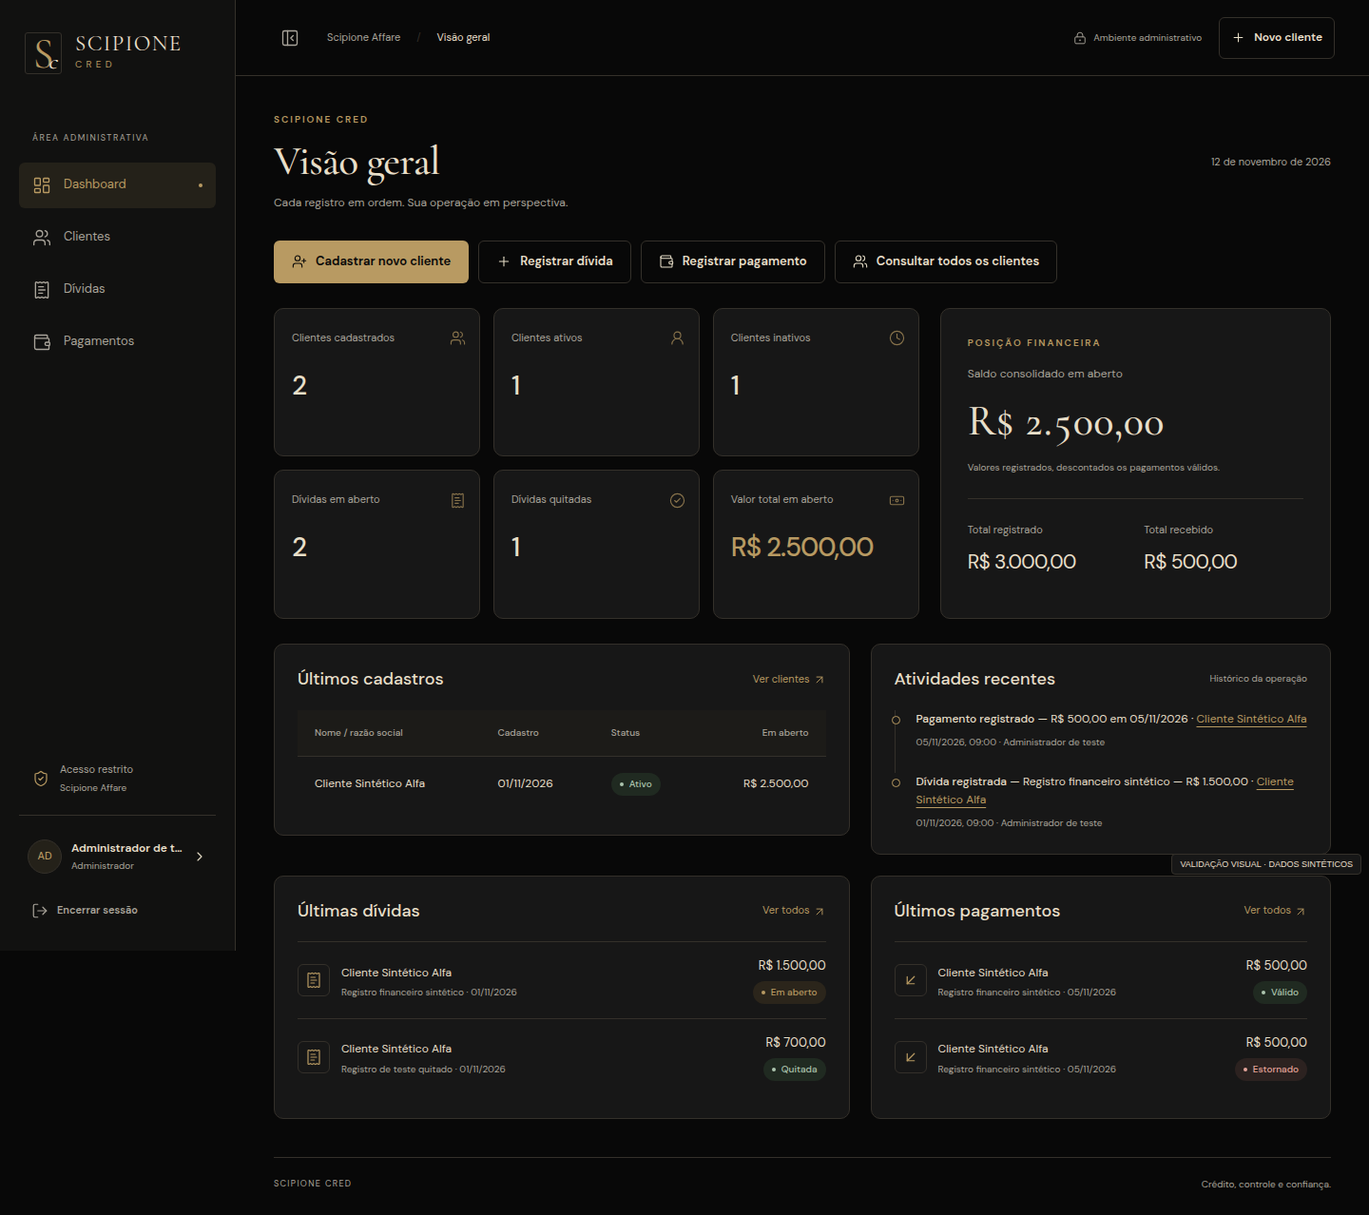
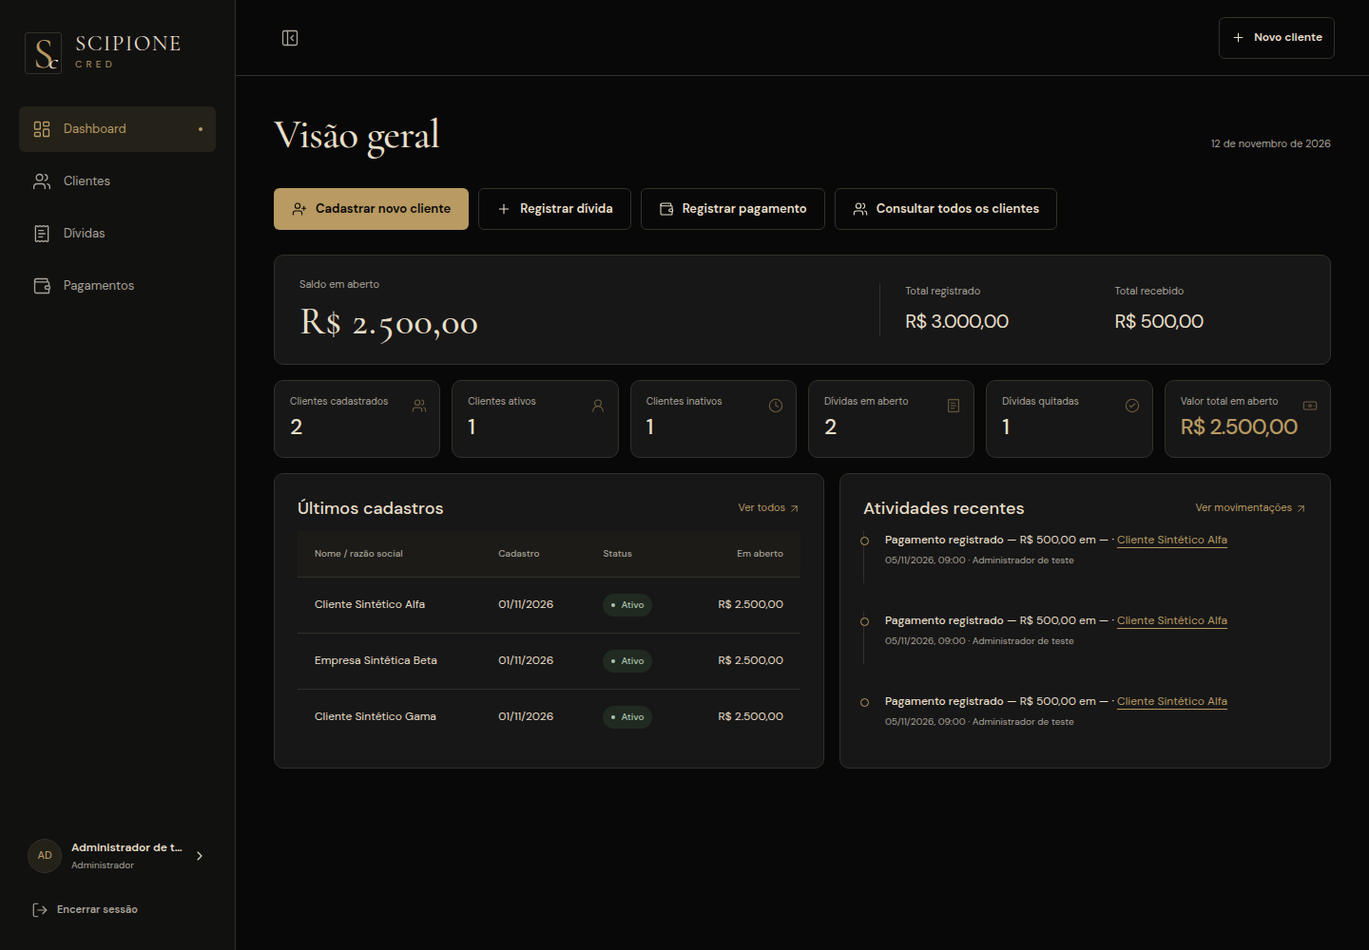
style: enxugar textos redundantes e equilibrar cards do dashboard
Mantém apenas títulos, indicadores e dados operacionais; faixa financeira única, seis indicadores em uma linha no desktop e painéis pareados sem vãos.

diff --git a/src/styles/base.css b/src/styles/base.css
@@ -35,21 +35,17 @@ strong { font-weight: 600; }
 /* Navigation: permanent rail on desktop, touch navigation on phones. */
 .app-shell { min-height: 100dvh; }
 .sidebar { position: fixed; inset: 0 auto 0 0; z-index: 20; width: var(--sidebar-width); padding: 34px 20px 20px; background: #111110; border-right: 1px solid var(--borda); display: flex; flex-direction: column; transition: width var(--transition); }
-.brand { display: flex; align-items: center; gap: 14px; color: var(--marfim); text-decoration: none; padding: 0 6px; margin-bottom: 60px; }
+.brand { display: flex; align-items: center; gap: 14px; color: var(--marfim); text-decoration: none; padding: 0 6px; margin-bottom: 34px; }
 .brand-mark { position: relative; flex-shrink: 0; width: 39px; height: 44px; display: grid; place-items: center; font: 44px/1 var(--font-display); color: var(--ouro); border: 1px solid var(--borda); border-radius: 3px; }
 .brand-mark span { position: absolute; right: 4px; bottom: 0; font: italic 23px/1 var(--font-display); color: var(--marfim); }
 .brand-name { display: flex; flex-direction: column; font: 23px/1.05 var(--font-display); letter-spacing: .06em; }
 .brand-name > span { font: 10px/2 var(--font-body); letter-spacing: .43em; color: var(--ouro); }
-.nav-caption { margin: 0 14px 18px; font-size: 9px; letter-spacing: .17em; color: var(--muted); white-space: nowrap; }
 .sidebar-nav { display: flex; flex-direction: column; gap: 7px; }
 .nav-link { position: relative; display: flex; align-items: center; gap: 13px; min-height: 48px; padding: 12px 14px; color: var(--muted); border-radius: 6px; text-decoration: none; font-size: 13px; transition: background var(--transition), color var(--transition); }
 .nav-link:hover { background: var(--painel); color: var(--marfim); }
 .nav-link.active { background: #242119; color: var(--ouro); }
 .nav-dot { width: 4px; height: 4px; background: var(--ouro); border-radius: 50%; margin-left: auto; }
-.sidebar-bottom { margin-top: auto; padding-top: 48px; }
-.sidebar-security { display: flex; gap: 11px; align-items: center; padding: 20px 14px; margin-bottom: 16px; color: var(--ouro); border-bottom: 1px solid var(--borda); font-size: 11px; }
-.sidebar-security > span { color: var(--muted); }
-.sidebar-security > span > span { display: block; font-size: 10px; margin-top: 2px; }
+.sidebar-bottom { margin-top: auto; padding-top: 28px; }
 .admin-profile { width: 100%; padding: 8px; background: transparent; color: var(--marfim); gap: 10px; justify-content: flex-start; text-align: left; }
 .admin-profile:hover { background: var(--painel); color: var(--marfim); }
 .admin-avatar { display: inline-flex; flex-shrink: 0; width: 36px; height: 36px; min-height: 36px; padding: 0; align-items: center; justify-content: center; background: #242119; color: var(--ouro); border: 1px solid var(--borda); border-radius: 50%; font-size: 11px; font-weight: 500; }
@@ -61,18 +57,12 @@ strong { font-weight: 600; }
 .workspace { margin-left: var(--sidebar-width); transition: margin-left var(--transition); }
 .topo { height: 80px; border-bottom: 1px solid var(--borda); padding: 0 36px; display: flex; justify-content: space-between; align-items: center; gap: 20px; background: var(--fundo); }
 .topo-left, .topo-right { display: flex; align-items: center; gap: 18px; min-width: 0; }
-.topo-context { font-size: 11px; color: var(--muted); }
-.topo-context > span { color: var(--borda); margin: 0 14px; }
-.topo-context strong { color: var(--marfim); font-weight: 400; }
-.access-label { display: inline-flex; align-items: center; gap: 7px; color: var(--muted); font-size: 10px; }
 .mobile-brand, .mobile-profile, .mobile-nav { display: none; }
 .pg { padding: 38px 40px 24px; max-width: 1600px; margin: 0 auto; }
-.page-heading { display: flex; justify-content: space-between; align-items: center; gap: 24px; margin-bottom: 30px; }
-.page-description { font-size: 12px; color: var(--muted); max-width: 650px; margin: 0; }
+.page-heading { display: flex; justify-content: space-between; align-items: baseline; gap: 24px; margin-bottom: 22px; }
+.page-description { font-size: 12px; color: var(--muted); max-width: 650px; margin: -10px 0 22px; }
 .page-date { font-size: 11px; color: var(--muted); white-space: nowrap; }
 .back-link { display: inline-flex; gap: 8px; align-items: center; color: var(--muted); text-decoration: none; font-size: 11px; margin-bottom: 22px; }
-.page-footer { display: flex; justify-content: space-between; gap: 20px; border-top: 1px solid var(--borda); margin-top: 40px; padding-top: 20px; color: var(--muted); font-size: 10px; }
-.page-footer > span:first-child { letter-spacing: .15em; font-size: 9px; }
 .sidebar-collapsed { --sidebar-width: 80px; }
 .sidebar-collapsed .sidebar { padding: 34px 12px 20px; }
 .sidebar-collapsed .brand { margin-left: 1px; padding: 0; }
@@ -344,7 +334,6 @@ dd { margin: 0; overflow-wrap: anywhere; }
   .auth h1 { font-size: 34px; }
   input, select, textarea { font-size: 16px; }
   .dialogo { padding: 24px; }
-  .page-footer { font-size: 9px; }
 }
 @media (max-width: 360px) {
   .pg { padding-left: 16px; padding-right: 16px; }
@@ -429,40 +418,42 @@ dd { margin: 0; overflow-wrap: anywhere; }
   td[data-label="Ações"] .acoes-linha > * { flex: 1; min-width: 100px; }
 }
 
-.dashboard-top { display: grid; grid-template-columns: 1.65fr 1fr; gap: 22px; margin-bottom: 26px; }
-.dashboard-top .cards { grid-template-columns: repeat(3, minmax(0, 1fr)); margin: 0; }
-.dashboard-top .card { padding: 22px 18px; }
-.dashboard-top .card .rot { min-height: 32px; }
-.dashboard-top .card strong { font-size: 28px; }
-.dashboard-top .financial-overview { margin: 0; }
-.dashboard-top .financial-breakdown { grid-template-columns: repeat(2, minmax(0, 1fr)); gap: 18px; }
-.financial-hero .rot { font-size: 12px; color: var(--muted); }
-.financial-hero small { display: block; font-size: 10px; margin-top: 12px; }
-.dashboard-top .financial-hero strong { margin-top: 12px; font-size: 44px; }
-.dashboard-grid { grid-template-columns: 1.25fr 1fr; }
-.panel-header .muted { font-size: 10px; }
-.dashboard-recent { margin-top: 22px; }
-.recent-records { list-style: none; padding: 0; margin: 0; }
-.recent-records li { display: flex; gap: 12px; align-items: center; padding: 15px 0; border-top: 1px solid var(--borda); }
-.recent-records li > div { flex: 1; min-width: 0; }
-.recent-records a { color: var(--marfim); font-size: 12px; text-decoration: none; }
-.recent-records small { display: block; font-size: 10px; margin-top: 3px; overflow-wrap: anywhere; }
-.recent-icon { width: 34px; height: 34px; display: grid; place-items: center; color: var(--ouro); border: 1px solid var(--borda); border-radius: 6px; }
-.recent-amount { display: flex; flex-direction: column; align-items: flex-end; gap: 5px; font-size: 13px; white-space: nowrap; }
-@media (max-width: 1190px) {
-  .dashboard-top { grid-template-columns: 1fr; }
+/* Dashboard: faixa financeira única, indicadores compactos e painéis pareados. */
+.financial-overview { display: grid; grid-template-columns: minmax(0, 1.3fr) minmax(0, 1fr); align-items: center; gap: 28px; padding: 22px 26px; margin: 0 0 16px; }
+.financial-hero { padding: 0; border: 0; }
+.financial-hero .rot { display: block; font-size: 11px; color: var(--muted); }
+.financial-hero strong { display: block; margin-top: 6px; font: 500 clamp(30px, 3vw, 40px)/1.15 var(--font-display); color: var(--marfim); font-variant-numeric: tabular-nums; }
+.financial-breakdown { grid-template-columns: repeat(2, minmax(0, 1fr)); gap: 20px; margin: 0; padding-left: 26px; border-left: 1px solid var(--borda); }
+.financial-breakdown dd { margin-top: 6px; font-size: 20px; }
+.cards { grid-template-columns: repeat(3, minmax(0, 1fr)); gap: 12px; margin-bottom: 16px; }
+.card { padding: 15px 16px 17px; gap: 6px; }
+.card .rot { font-size: 10.5px; line-height: 1.35; min-height: 0; padding-right: 22px; }
+.card strong { font-size: 25px; }
+.metric-icon { top: 14px; right: 13px; opacity: .55; }
+.dashboard-grid { grid-template-columns: minmax(0, 1.12fr) minmax(0, 1fr); gap: 16px; align-items: stretch; }
+.dashboard-grid .panel { display: flex; flex-direction: column; }
+.dashboard-grid .panel-header { margin-bottom: 12px; }
+.dashboard-grid .rolagem { flex: 1; }
+.dashboard-grid .historico { flex: 1; display: flex; flex-direction: column; justify-content: space-between; }
+.dashboard-grid .historico li { padding-bottom: 16px; }
+.dashboard-grid .historico small { margin-top: 4px; }
+@media (min-width: 1440px) {
+  .cards { grid-template-columns: repeat(6, minmax(0, 1fr)); }
+  .card strong { font-size: 23px; }
+  .card .rot { padding-right: 16px; }
+}
+@media (max-width: 1023px) {
+  .financial-overview { grid-template-columns: 1fr; gap: 16px; padding: 20px; }
+  .financial-breakdown { padding: 16px 0 0; border-left: 0; border-top: 1px solid var(--borda); }
   .dashboard-grid { grid-template-columns: 1fr; }
 }
 @media (max-width: 767px) {
-  .dashboard-top .cards { grid-template-columns: repeat(2, minmax(0, 1fr)); }
-  .dashboard-top .card { padding: 18px 14px; }
-  .dashboard-top .card strong { font-size: 25px; }
-  .dashboard-top .financial-hero strong { font-size: 38px; }
-  .dashboard-top .financial-breakdown { grid-template-columns: 1fr; }
+  .cards { grid-template-columns: repeat(2, minmax(0, 1fr)); gap: 10px; }
+  .card { padding: 14px 13px 16px; }
+  .card strong { font-size: 22px; }
+  .financial-breakdown { grid-template-columns: 1fr; gap: 12px; }
+  .financial-breakdown > div { display: flex; align-items: baseline; justify-content: space-between; gap: 12px; }
+  .financial-breakdown dd { margin: 0; }
 }
-@media (max-width: 360px) {
-  .dashboard-top .card strong { font-size: 22px; }
-}
-
 .profile-meta { display: flex; flex-wrap: wrap; gap: 8px 22px; color: var(--muted); font-size: 11px; }
 .profile-meta span { overflow-wrap: anywhere; }

diff --git a/src/modules/dashboard.js b/src/modules/dashboard.js
@@ -2,8 +2,6 @@ import { pagina, badgeStatus } from '../components/pagina.js';
 import { itemHistorico } from '../components/historico.js';
 import * as dashboard from '../services/dashboard.js';
 import * as auditoria from '../services/auditoria.js';
-import * as dividas from '../services/dividas.js';
-import * as pagamentos from '../services/pagamentos.js';
 import { nomesPorId } from '../services/devedores.js';
 import { formatarBRL, formatarCentavos, paraCentavos } from '../utils/money.js';
 import { formatarData } from '../utils/dates.js';
@@ -12,17 +10,18 @@ import { esc } from '../core/dom.js';
 import { icon } from '../components/icons.js';
 import { loadingState, errorState } from '../components/states.js';
 
+const RECENTES = 5;
+
 export async function renderDashboard(raiz, { admin }) {
-  const el = pagina(raiz, { titulo: 'Visão geral', descricao: 'Cada registro em ordem. Sua operação em perspectiva.', admin });
-  el.innerHTML = loadingState('Consolidando sua operação…');
+  const el = pagina(raiz, { titulo: 'Visão geral', admin });
+  el.innerHTML = loadingState('Carregando indicadores…');
   try {
     const totais = Object.keys(dashboard).includes('obterTotaisFinanceiros') ? dashboard.obterTotaisFinanceiros() : Promise.resolve(null);
-    const ultimasDividas = Object.keys(dividas).includes('listarPagina') ? dividas.listarPagina({ pagina: 1, porPagina: 3, ordem: 'recentes' }) : Promise.resolve(null);
-    const ultimosPagamentos = Object.keys(pagamentos).includes('listarPagina') ? pagamentos.listarPagina({ pagina: 1, porPagina: 3, ordem: 'recentes' }) : Promise.resolve(null);
-    const [ind, ultimos, recentes, financeiros, novas, recebimentos] = await Promise.all([dashboard.obterIndicadores(), dashboard.ultimosCadastros(5), auditoria.listarRecentes(10), totais, ultimasDividas, ultimosPagamentos]);
+    const [ind, ultimos, recentes, financeiros] = await Promise.all([dashboard.obterIndicadores(), dashboard.ultimosCadastros(RECENTES), auditoria.listarRecentes(RECENTES), totais]);
     if (!el.isConnected) return;
     const nomes = await nomesPorId(recentes.map((r) => r.devedor_id));
-    const card = (rotulo, valor, ico, extra = '') => `<div class="card ${extra}"><span class="metric-icon">${icon(ico, 17)}</span><span class="rot" data-ui-copy>${esc(rotulo)}</span><strong>${esc(valor)}</strong></div>`;
+    if (!el.isConnected) return;
+    const card = (rotulo, valor, ico, extra = '') => `<div class="card ${extra}"><span class="metric-icon">${icon(ico, 16)}</span><span class="rot" data-ui-copy>${esc(rotulo)}</span><strong>${esc(valor)}</strong></div>`;
     const centavos = (obj, campoC, campoDecimal) => {
       if (Number.isSafeInteger(obj?.[campoC])) return obj[campoC];
       if (obj?.[campoDecimal] != null && Number.isFinite(Number(obj[campoDecimal]))) return paraCentavos(obj[campoDecimal]);
@@ -31,13 +30,14 @@ export async function renderDashboard(raiz, { admin }) {
     const registradoC = centavos(financeiros, 'totalRegistradoC', 'total_registrado');
     const recebidoC = centavos(financeiros, 'totalRecebidoC', 'total_recebido');
     const abertoC = centavos(financeiros, 'totalEmAbertoC', 'total_em_aberto');
-    const visao = financeiros ? `<section class="financial-overview" aria-labelledby="resumo-financeiro"><p class="eyebrow" id="resumo-financeiro">POSIÇÃO FINANCEIRA</p><div class="financial-hero"><span class="rot">Saldo consolidado em aberto</span><strong>${abertoC === null ? '—' : formatarCentavos(abertoC)}</strong><small>Valores registrados, descontados os pagamentos válidos.</small></div><dl class="financial-breakdown"><div><dt>Total registrado</dt><dd>${registradoC === null ? '—' : formatarCentavos(registradoC)}</dd></div><div><dt>Total recebido</dt><dd>${recebidoC === null ? '—' : formatarCentavos(recebidoC)}</dd></div></dl></section>` : '';
-    const painelFinanceiro = (titulo, caminho, itens, tipo) => `<section class="panel recent-finance"><div class="panel-header"><h2>${titulo}</h2><a href="#${caminho}">Ver todos ${icon('arrow-up-right', 14)}</a></div>${itens.length ? `<ul class="recent-records">${itens.map((r) => `<li><span class="recent-icon">${icon(tipo === 'pagamento' ? 'arrow-down-left' : 'receipt-text', 18)}</span><div><a href="#/devedores/${esc(r.devedor_id)}">${esc(r.devedor_nome || 'Cliente')}</a><small>${esc(tipo === 'pagamento' ? r.divida_descricao : r.descricao)} · ${formatarData(tipo === 'pagamento' ? r.data_pagamento : r.data_registro)}</small></div><span class="recent-amount">${formatarBRL(tipo === 'pagamento' ? r.valor : r.valor_original)}${badgeStatus(r.status)}</span></li>`).join('')}</ul>` : '<p class="vazio">Nenhum registro encontrado.</p>'}</section>`;
+    const visao = financeiros ? `<section class="financial-overview" aria-labelledby="resumo-financeiro">
+        <div class="financial-hero"><span class="rot" id="resumo-financeiro">Saldo em aberto</span><strong>${abertoC === null ? '—' : formatarCentavos(abertoC)}</strong></div>
+        <dl class="financial-breakdown"><div><dt>Total registrado</dt><dd>${registradoC === null ? '—' : formatarCentavos(registradoC)}</dd></div><div><dt>Total recebido</dt><dd>${recebidoC === null ? '—' : formatarCentavos(recebidoC)}</dd></div></dl></section>` : '';
     el.innerHTML = `<div class="atalhos"><a class="btn" data-ui-copy href="#/devedores/novo">${icon('user-plus', 16)} Cadastrar novo devedor</a><a class="btn sec" href="#/dividas/nova">${icon('plus', 16)} Registrar dívida</a><a class="btn sec" href="#/pagamentos/novo">${icon('wallet', 16)} Registrar pagamento</a><a class="btn sec" data-ui-copy href="#/devedores">${icon('users', 16)} Consultar todos os devedores</a></div>
-      <div class="dashboard-top"><div class="cards">${card('Devedores cadastrados', ind.total_devedores, 'users')}${card('Clientes ativos', ind.devedores_ativos, 'user-round')}${card('Clientes inativos', ind.devedores_inativos, 'clock')}${card('Dívidas em aberto', ind.dividas_em_aberto, 'receipt-text')}${card('Dívidas quitadas', ind.dividas_quitadas, 'check-circle')}${card('Valor total em aberto', formatarBRL(ind.valor_total_em_aberto), 'banknote', 'destaque')}</div>${visao}</div>
-      <div class="dashboard-grid"><section class="panel"><div class="panel-header"><h2>Últimos cadastros</h2><a href="#/devedores">Ver clientes ${icon('arrow-up-right', 14)}</a></div>${ultimos.length ? `<div class="rolagem"><table class="financial-table"><thead><tr><th>Nome / razão social</th><th>Cadastro</th><th>Status</th><th class="num">Em aberto</th></tr></thead><tbody>${ultimos.map((d) => `<tr><td data-label="Nome / razão social"><a href="#/devedores/${esc(d.id)}">${esc(d.nome_razao_social)}</a></td><td data-label="Cadastro">${formatarData(d.created_at)}</td><td data-label="Status">${badgeStatus(d.status)}</td><td data-label="Em aberto" class="num">${formatarBRL(d.total_em_aberto)}</td></tr>`).join('')}</tbody></table></div>` : '<p class="empty-state vazio" data-ui-copy>Nenhum devedor cadastrado ainda. Comece em “Cadastrar novo devedor”.</p>'}</section>
-      <section class="panel"><div class="panel-header"><h2>Atividades recentes</h2><span class="muted">Histórico da operação</span></div>${recentes.length ? `<ol class="historico">${recentes.map((m) => itemHistorico(m, { admin, nomes })).join('')}</ol>` : '<p class="vazio">Nenhuma movimentação registrada.</p>'}</section></div>
-      ${novas || recebimentos ? `<div class="dashboard-grid dashboard-recent">${novas ? painelFinanceiro('Últimas dívidas', '/dividas', novas.itens, 'divida') : ''}${recebimentos ? painelFinanceiro('Últimos pagamentos', '/pagamentos', recebimentos.itens, 'pagamento') : ''}</div>` : ''}`;
+      ${visao}
+      <div class="cards">${card('Devedores cadastrados', ind.total_devedores, 'users')}${card('Clientes ativos', ind.devedores_ativos, 'user-round')}${card('Clientes inativos', ind.devedores_inativos, 'clock')}${card('Dívidas em aberto', ind.dividas_em_aberto, 'receipt-text')}${card('Dívidas quitadas', ind.dividas_quitadas, 'check-circle')}${card('Valor total em aberto', formatarBRL(ind.valor_total_em_aberto), 'banknote', 'destaque')}</div>
+      <div class="dashboard-grid"><section class="panel"><div class="panel-header"><h2>Últimos cadastros</h2><a href="#/devedores">Ver todos ${icon('arrow-up-right', 13)}</a></div>${ultimos.length ? `<div class="rolagem"><table class="financial-table"><thead><tr><th>Nome / razão social</th><th>Cadastro</th><th>Status</th><th class="num">Em aberto</th></tr></thead><tbody>${ultimos.map((d) => `<tr><td data-label="Nome / razão social"><a href="#/devedores/${esc(d.id)}">${esc(d.nome_razao_social)}</a></td><td data-label="Cadastro">${formatarData(d.created_at)}</td><td data-label="Status">${badgeStatus(d.status)}</td><td data-label="Em aberto" class="num">${formatarBRL(d.total_em_aberto)}</td></tr>`).join('')}</tbody></table></div>` : '<p class="empty-state vazio" data-ui-copy>Nenhum devedor cadastrado ainda.</p>'}</section>
+      <section class="panel"><div class="panel-header"><h2>Atividades recentes</h2><a href="#/dividas">Ver movimentações ${icon('arrow-up-right', 13)}</a></div>${recentes.length ? `<ol class="historico">${recentes.map((m) => itemHistorico(m, { admin, nomes })).join('')}</ol>` : '<p class="vazio">Nenhuma movimentação registrada.</p>'}</section></div>`;
   } catch (e) {
     if (!el.isConnected) return;
     el.innerHTML = errorState(traduzirErro(e));

diff --git a/src/components/pagina.js b/src/components/pagina.js
@@ -28,14 +28,14 @@ export function pagina(raiz, { titulo, descricao = '', voltar = null, admin = ad
     <a class="skip-link" href="#conteudo">Pular para o conteúdo</a>
     <aside class="sidebar" aria-label="Menu principal">
       <a class="brand" href="#/" aria-label="Scipione Cred — dashboard">${marca()}</a>
-      <span class="nav-caption">ÁREA ADMINISTRATIVA</span><nav class="sidebar-nav" aria-label="Navegação principal">${nav}</nav>
-      <div class="sidebar-bottom"><div class="sidebar-security">${icon('shield-check', 18)}<span>Acesso restrito<span>Scipione Affare</span></span></div>
+      <nav class="sidebar-nav" aria-label="Navegação principal">${nav}</nav>
+      <div class="sidebar-bottom">
       <button type="button" id="perfil-admin" class="admin-profile" title="Perfil administrativo"><span class="admin-avatar">${esc(iniciais)}</span><span class="admin-info"><strong>${esc(nome)}</strong><small>Administrador</small></span>${icon('chevron-right', 16)}</button>
       <button type="button" id="sair" class="logout" title="Encerrar sessão">${icon('log-out', 18)}<span>Encerrar sessão</span></button></div>
     </aside>
-    <div class="workspace"><header class="topo"><div class="topo-left"><button type="button" id="recolher-menu" class="icon-button" aria-label="${collapsed ? 'Expandir' : 'Recolher'} menu" aria-expanded="${!collapsed}" title="${collapsed ? 'Expandir' : 'Recolher'} menu">${icon(collapsed ? 'panel-left-open' : 'panel-left-close', 20)}</button><span class="topo-context">Scipione Affare <span>/</span> <strong>${esc(titulo)}</strong></span><a class="mobile-brand" href="#/">SCIPIONE <span>CRED</span></a></div>
-    <div class="topo-right"><span class="access-label">${icon('lock-keyhole', 14)} Ambiente administrativo</span><button type="button" class="admin-avatar mobile-profile" id="perfil-mobile" aria-label="Perfil e sessão">${esc(iniciais)}</button><a class="btn peq sec header-action" href="#/devedores/novo">${icon('plus', 15)} Novo cliente</a></div></header>
-    <main class="pg" id="pagina-principal">${voltar ? `<a class="back-link" href="#${esc(voltar.href)}">${icon('arrow-left', 16)} ${esc(voltar.texto)}</a>` : ''}<div class="page-heading"><div><p class="eyebrow">SCIPIONE CRED</p><h1>${esc(titulo)}</h1>${descricao ? `<p class="page-description">${esc(descricao)}</p>` : ''}</div><span class="page-date">${esc(new Intl.DateTimeFormat('pt-BR', { day: 'numeric', month: 'long', year: 'numeric', timeZone: 'America/Sao_Paulo' }).format(new Date()))}</span></div><div id="conteudo" tabindex="-1"></div><footer class="page-footer"><span>SCIPIONE CRED</span><span>Crédito, controle e confiança.</span></footer></main></div>
+    <div class="workspace"><header class="topo"><div class="topo-left"><button type="button" id="recolher-menu" class="icon-button" aria-label="${collapsed ? 'Expandir' : 'Recolher'} menu" aria-expanded="${!collapsed}" title="${collapsed ? 'Expandir' : 'Recolher'} menu">${icon(collapsed ? 'panel-left-open' : 'panel-left-close', 20)}</button><a class="mobile-brand" href="#/">SCIPIONE <span>CRED</span></a></div>
+    <div class="topo-right"><button type="button" class="admin-avatar mobile-profile" id="perfil-mobile" aria-label="Perfil e sessão">${esc(iniciais)}</button><a class="btn peq sec header-action" href="#/devedores/novo">${icon('plus', 15)} Novo cliente</a></div></header>
+    <main class="pg" id="pagina-principal">${voltar ? `<a class="back-link" href="#${esc(voltar.href)}">${icon('arrow-left', 16)} ${esc(voltar.texto)}</a>` : ''}<div class="page-heading"><h1>${esc(titulo)}</h1><span class="page-date">${esc(new Intl.DateTimeFormat('pt-BR', { day: 'numeric', month: 'long', year: 'numeric', timeZone: 'America/Sao_Paulo' }).format(new Date()))}</span></div>${descricao ? `<p class="page-description">${esc(descricao)}</p>` : ''}<div id="conteudo" tabindex="-1"></div></main></div>
     <nav class="mobile-nav" aria-label="Navegação mobile">${nav}</nav></div>`;
   const q = (s) => raiz.querySelector(s);
   q('.skip-link').addEventListener('click', (event) => { event.preventDefault(); q('#conteudo').focus(); });

diff --git a/docs/relatorio-redesign.md b/docs/relatorio-redesign.md
@@ -22,7 +22,7 @@ A identidade utiliza preto `#080808`, grafite `#171717`, dourado `#B89A62`, marf
 | Recuperação de senha | Formulário consistente, carregamento e mensagem sem revelar a existência de uma conta. |
 | Redefinição de senha | Política existente, confirmação, visibilidade, validação e proteção contra retorno de navegação antiga. |
 | Configuração pendente | Estado seguro e legível quando a configuração Supabase não está disponível; não libera acesso administrativo. |
-| Dashboard | Seis indicadores existentes, total registrado/recebido/saldo em aberto, últimos clientes, dívidas, pagamentos e timeline da operação. |
+| Dashboard | Faixa financeira única (saldo em aberto, total registrado e recebido), seis indicadores em uma linha no desktop e painéis de últimos clientes e atividades recentes com alturas equilibradas. |
 | Clientes | Busca, filtros cadastrais/financeiros, ordenação, paginação, foto privada/iniciais, documento, contato, saldo, perfil e edição. |
 | Cadastro e edição | Seções PF/PJ, RG aplicável, contato, endereço, ViaCEP editável, observações, foto e documentos. Status continua seguindo os fluxos existentes. |
 | Perfil individual | Foto, identificação e contato no cabeçalho, status/data, dados completos, totais, dívidas, pagamentos, estorno, documentos e histórico paginado. |
